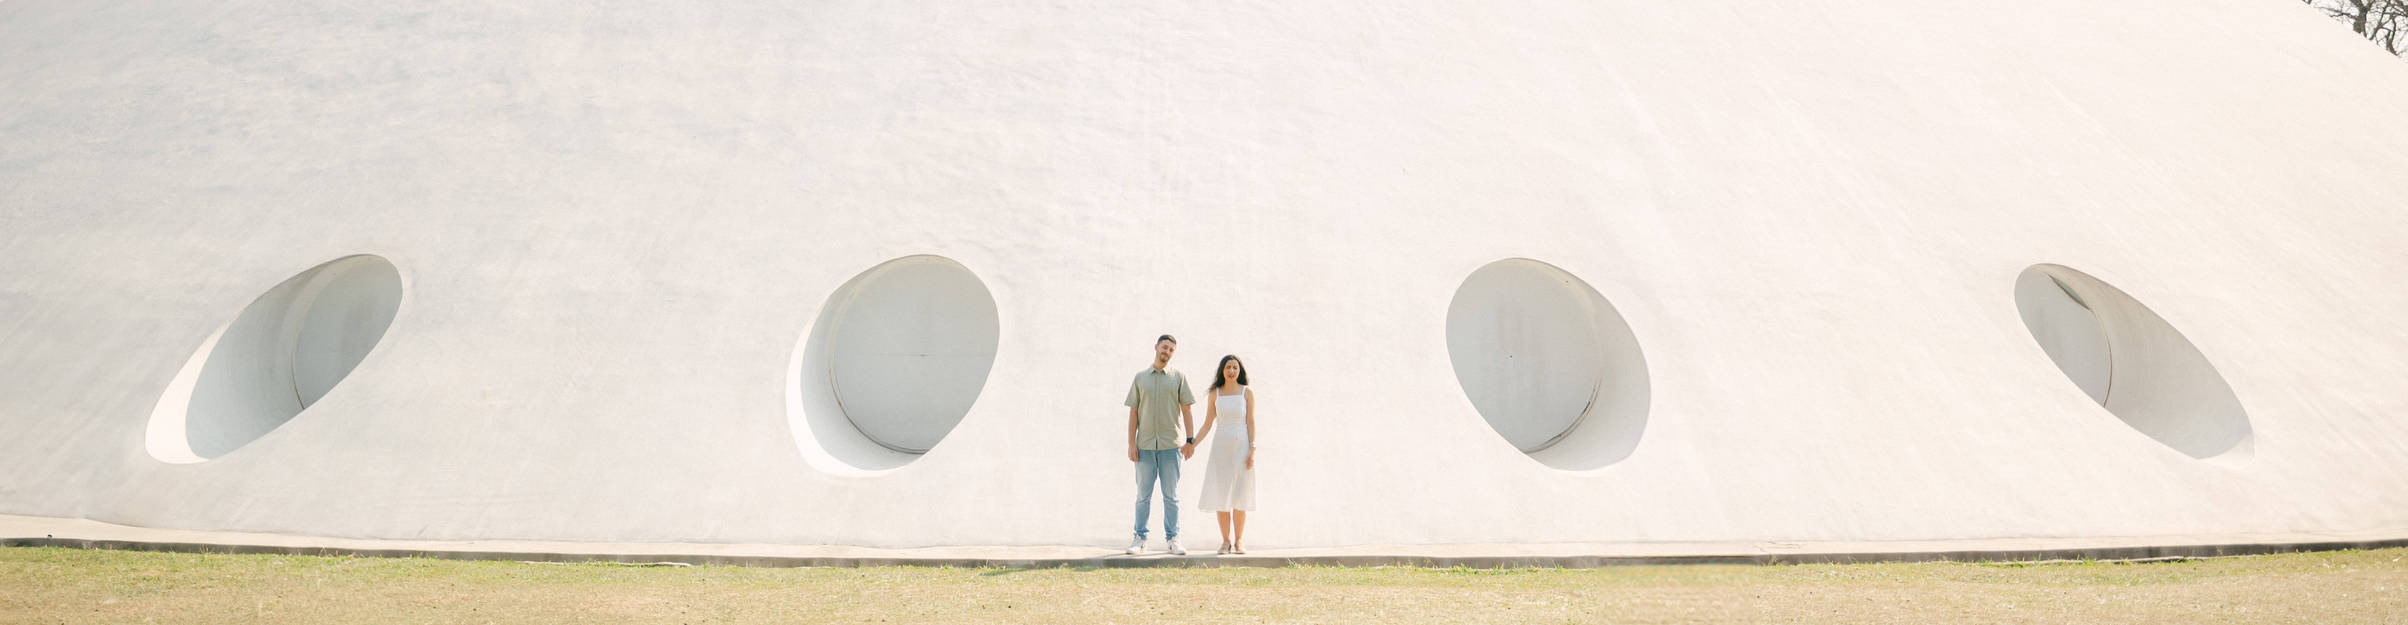
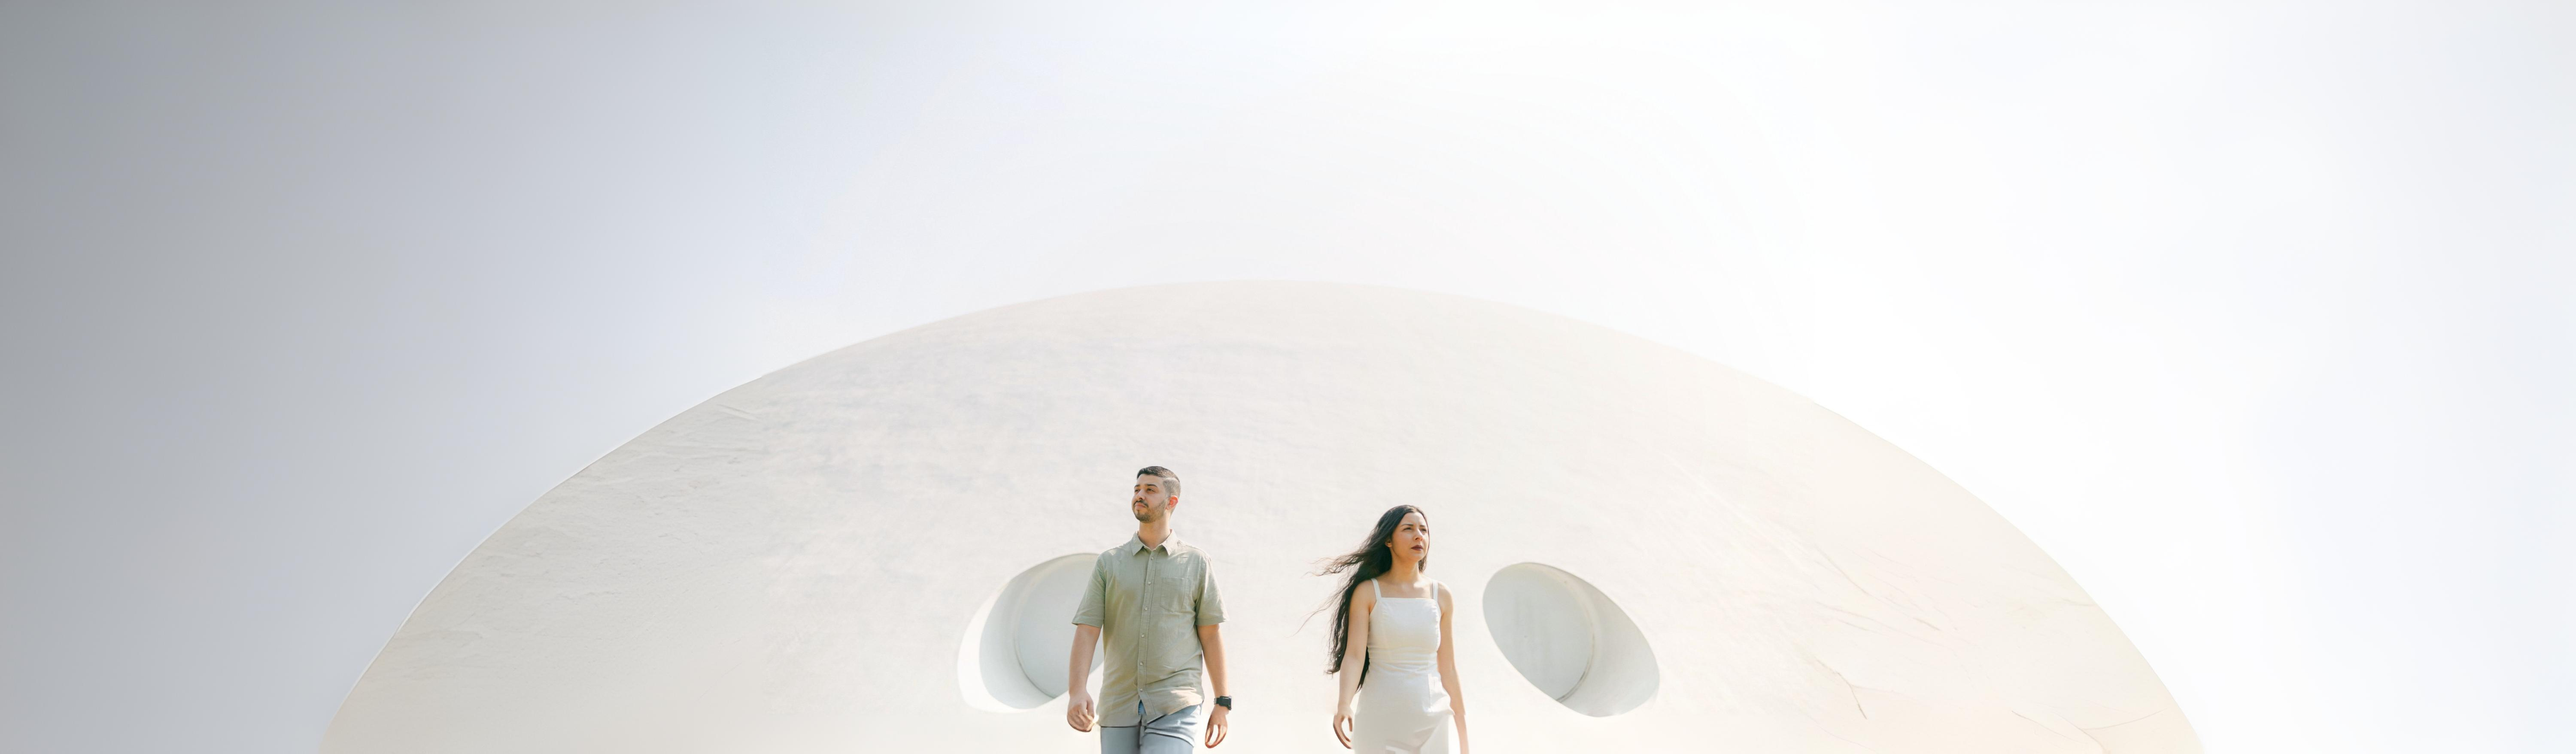
Atualiza a imagem de fundo do cabeçalho, simplifica o texto dos botões de rota e ajusta o padding do cabeçalho.

diff --git a/index.html b/index.html
@@ -121,7 +121,7 @@
                     </span>
                 </div>
                 <hr>
-                <button class="route-button" data-destination="R. Salma, 25 - Parque São George, Cotia - SP, 06708-090">Traçar Rota a partir da sua localização</button>
+                <button class="route-button" data-destination="R. Salma, 25 - Parque São George, Cotia - SP, 06708-090">Traçar Rota</button>
                 <!-- <div class="map-placeholder">
                     <p>[Mapa da Cerimônia Aqui]</p>
                     TODO: Adicionar mapa incorporado ou link 
@@ -152,7 +152,7 @@
                     </span>
                 </div>
                 <hr>
-                 <button class="route-button" data-destination="Av. José Giorgi, 33 - Granja Viana, Cotia - SP, 06707-100">Traçar Rota a partir da sua localização</button>
+                 <button class="route-button" data-destination="Av. José Giorgi, 33 - Granja Viana, Cotia - SP, 06707-100">Traçar Rota</button>
                 <!-- 
                 <p>Av. José Giorgi, 33 - Granja Viana</p>
                 <p>Cotia - SP, 06707-100</p>

diff --git a/style.css b/style.css
@@ -9,7 +9,7 @@ body {
 
 header {
     text-align: center;
-    padding: 1em 0 18em 0; /* Ajuste no padding para acomodar o SVG */
+    padding: 1em 0 15em 0; /* Ajuste no padding para acomodar o SVG */
     /* background-color: #f8f3e8; */ /* Cor removida/fallback */
     background-image: url('header-bg.jpg');
     background-size: cover; /* Faz a imagem cobrir a área */
